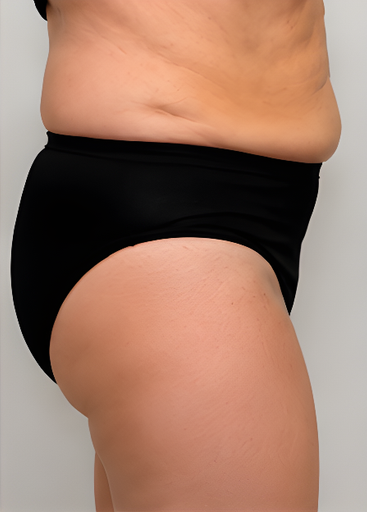
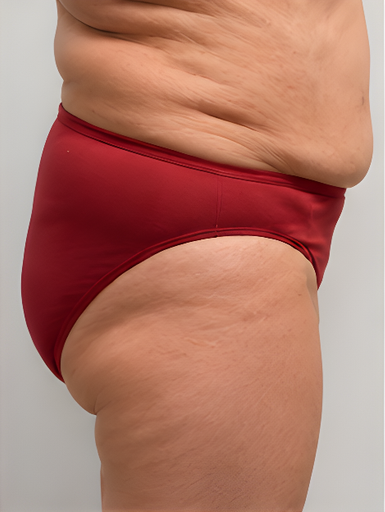
Aesthetik: Karussell groesser, Bilder vollstaendig (3:4), langsameres Autoplay; neue Bilder

diff --git a/style.css b/style.css
@@ -1674,24 +1674,30 @@ em { font-style: italic; font-family: var(--f-serif); font-weight: 400; }
 /* Ästhetik-Galerie / Karussell */
 .aesthetik-gallery {
     position: relative;
-    max-width: 980px;
+    max-width: 580px;
     margin: clamp(3rem, 6vw, 5rem) auto 0;
+    padding: clamp(.6rem, 1.5vw, 1rem);
     border-radius: var(--r-xl);
-    overflow: hidden;
-    box-shadow: 0 30px 70px -35px rgba(44,42,38,.35);
+    background: linear-gradient(150deg, var(--cream), var(--bg-alt));
+    box-shadow: 0 40px 90px -40px rgba(44,42,38,.4);
 }
-.gallery-viewport { overflow: hidden; border-radius: var(--r-xl); }
+.gallery-viewport {
+    overflow: hidden;
+    border-radius: var(--r-lg);
+}
 .gallery-track {
     display: flex;
-    transition: transform .7s cubic-bezier(.4,0,.2,1);
+    transition: transform 1.1s cubic-bezier(.45,0,.15,1);
     will-change: transform;
 }
 .gallery-slide { min-width: 100%; }
 .gallery-slide img {
     display: block;
     width: 100%;
-    height: clamp(280px, 46vw, 560px);
-    object-fit: cover;
+    aspect-ratio: 3 / 4;
+    object-fit: contain;
+    background: var(--bg-soft);
+    border-radius: var(--r-lg);
 }
 .gallery-arrow {
     position: absolute;

diff --git a/aesthetik.html b/aesthetik.html
@@ -13,7 +13,7 @@
     <link rel="preconnect" href="https://fonts.gstatic.com" crossorigin />
     <link href="https://fonts.googleapis.com/css2?family=Cormorant+Garamond:ital,wght@0,300;0,400;0,500;0,600;1,300;1,400&family=Inter:wght@300;400;500;600;700&display=swap" rel="stylesheet" />
 
-    <link rel="stylesheet" href="style.css?v=20260626-2" />
+    <link rel="stylesheet" href="style.css?v=20260626-3" />
     <!-- Structured data: LocalBusiness -->
     <script type="application/ld+json">
     {
@@ -346,7 +346,7 @@
             track.style.transform = 'translateX(' + (-i * 100) + '%)';
             for(var k = 0; k < n; k++){ dots[k].classList.toggle('active', k === i); }
         }
-        function start(){ timer = setInterval(function(){ go(i + 1); }, 4500); }
+        function start(){ timer = setInterval(function(){ go(i + 1); }, 6500); }
         function reset(){ clearInterval(timer); start(); }
         g.querySelector('.gallery-prev').addEventListener('click', function(){ go(i - 1); reset(); });
         g.querySelector('.gallery-next').addEventListener('click', function(){ go(i + 1); reset(); });
